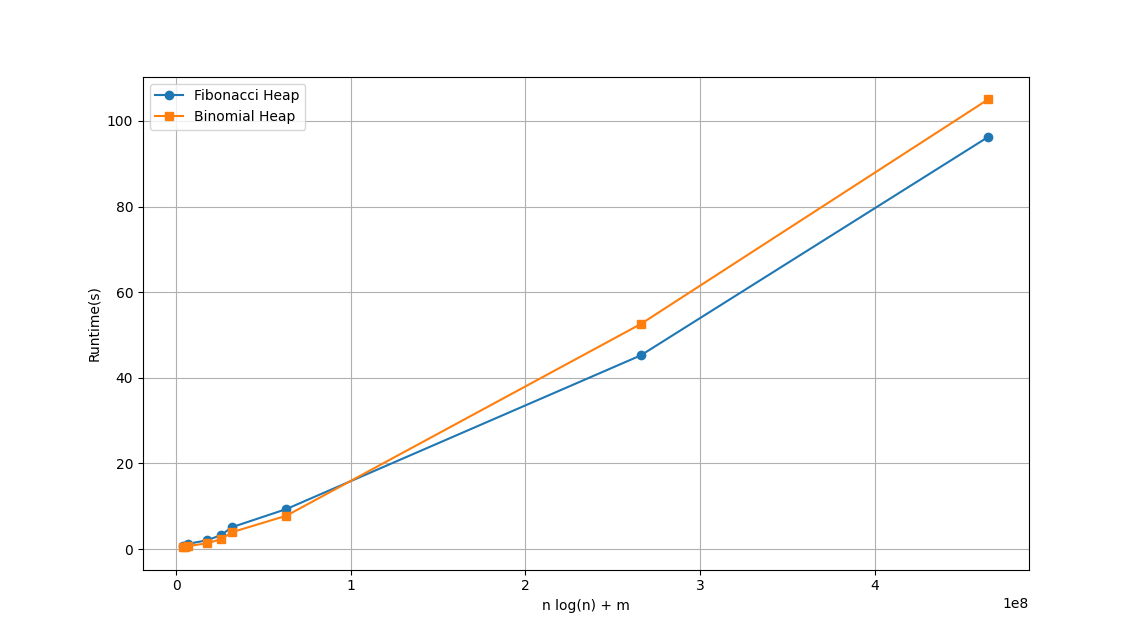
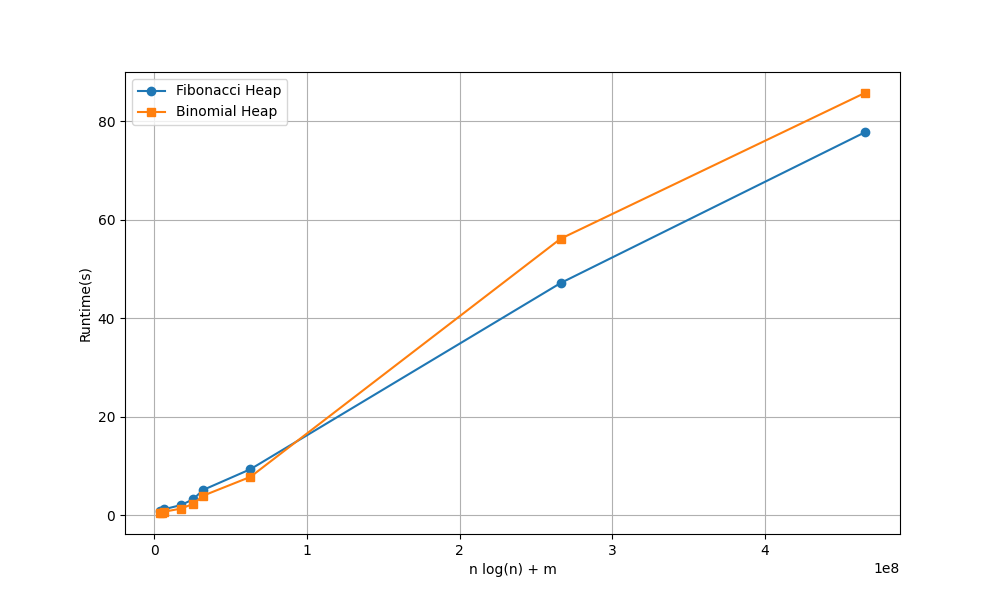
ads project

diff --git a/site/index.html b/site/index.html
@@ -201,20 +201,19 @@ $$
 
 ## 本地运行数据
 
-| 数据集 | Size(node, arcs) | 斐波那契堆（秒） | 二项堆（秒） |
-|--------|------|------------------|--------------|
-| NY     | 264346, 733846| 0.8266 | 0.4452 |
-| BAY    | 321270, 800172| 0.8390 | 0.4793 |
-| COL    | 435666, 1057066| 1.2197 | 0.7130 |
-| FLA    | 1070376, 2712798| 2.0530 | 1.3363 |
-| NE     | 1524453, 3897636| 3.2307 | 2.2901 |
-| CAL    | 1890815, 4657742| 5.1127 | 3.9456 |
-| E      | 3598623, 8778114| 9.3468 | 7.7899 |
-| CTR    | 14081816, 34292496| 45.2310 | 52.5523 |
-| USA    | 23947347, 58333344| 96.2844 | 105.0589 |
+| 数据集 | Size | 斐波那契堆（秒） | 二项堆（秒） |
+|--------|------|-----------------|-------------|
+| NY     | 264346, 733846| 0.82658 | 0.44519 |
+| BAY    | 321270, 800172| 0.83898 | 0.47932 |
+| COL    | 435666, 1057066| 1.21967 | 0.71303 |
+| FLA    | 1070376, 2712798| 2.05296 | 1.33634 |
+| NE     | 1524453, 3897636| 3.23071 | 2.29018 |
+| CAL    | 1890815, 4657742| 5.11268 | 3.94559 |
+| E      | 3598623, 8778114| 9.34682 | 7.78993 |
+| CTR    | 14081816, 34292496| 46.83178 | 56.11363 |
+| USA    | 23947347, 58333344| 77.77597 | 85.77322 |
 
 <center>
-
 不同数据结构的 Dijkstra 算法对不同数据集的性能对比
 </center>
 

diff --git a/src/dark.md b/src/dark.md
@@ -194,20 +194,19 @@ $$
 
 ## 本地运行数据
 
-| 数据集 | Size(node, arcs) | 斐波那契堆（秒） | 二项堆（秒） |
-|--------|------|------------------|--------------|
-| NY     | 264346, 733846| 0.8266 | 0.4452 |
-| BAY    | 321270, 800172| 0.8390 | 0.4793 |
-| COL    | 435666, 1057066| 1.2197 | 0.7130 |
-| FLA    | 1070376, 2712798| 2.0530 | 1.3363 |
-| NE     | 1524453, 3897636| 3.2307 | 2.2901 |
-| CAL    | 1890815, 4657742| 5.1127 | 3.9456 |
-| E      | 3598623, 8778114| 9.3468 | 7.7899 |
-| CTR    | 14081816, 34292496| 45.2310 | 52.5523 |
-| USA    | 23947347, 58333344| 96.2844 | 105.0589 |
+| 数据集 | Size | 斐波那契堆（秒） | 二项堆（秒） |
+|--------|------|-----------------|-------------|
+| NY     | 264346, 733846| 0.82658 | 0.44519 |
+| BAY    | 321270, 800172| 0.83898 | 0.47932 |
+| COL    | 435666, 1057066| 1.21967 | 0.71303 |
+| FLA    | 1070376, 2712798| 2.05296 | 1.33634 |
+| NE     | 1524453, 3897636| 3.23071 | 2.29018 |
+| CAL    | 1890815, 4657742| 5.11268 | 3.94559 |
+| E      | 3598623, 8778114| 9.34682 | 7.78993 |
+| CTR    | 14081816, 34292496| 46.83178 | 56.11363 |
+| USA    | 23947347, 58333344| 77.77597 | 85.77322 |
 
 <center>
-
 不同数据结构的 Dijkstra 算法对不同数据集的性能对比
 </center>
 
